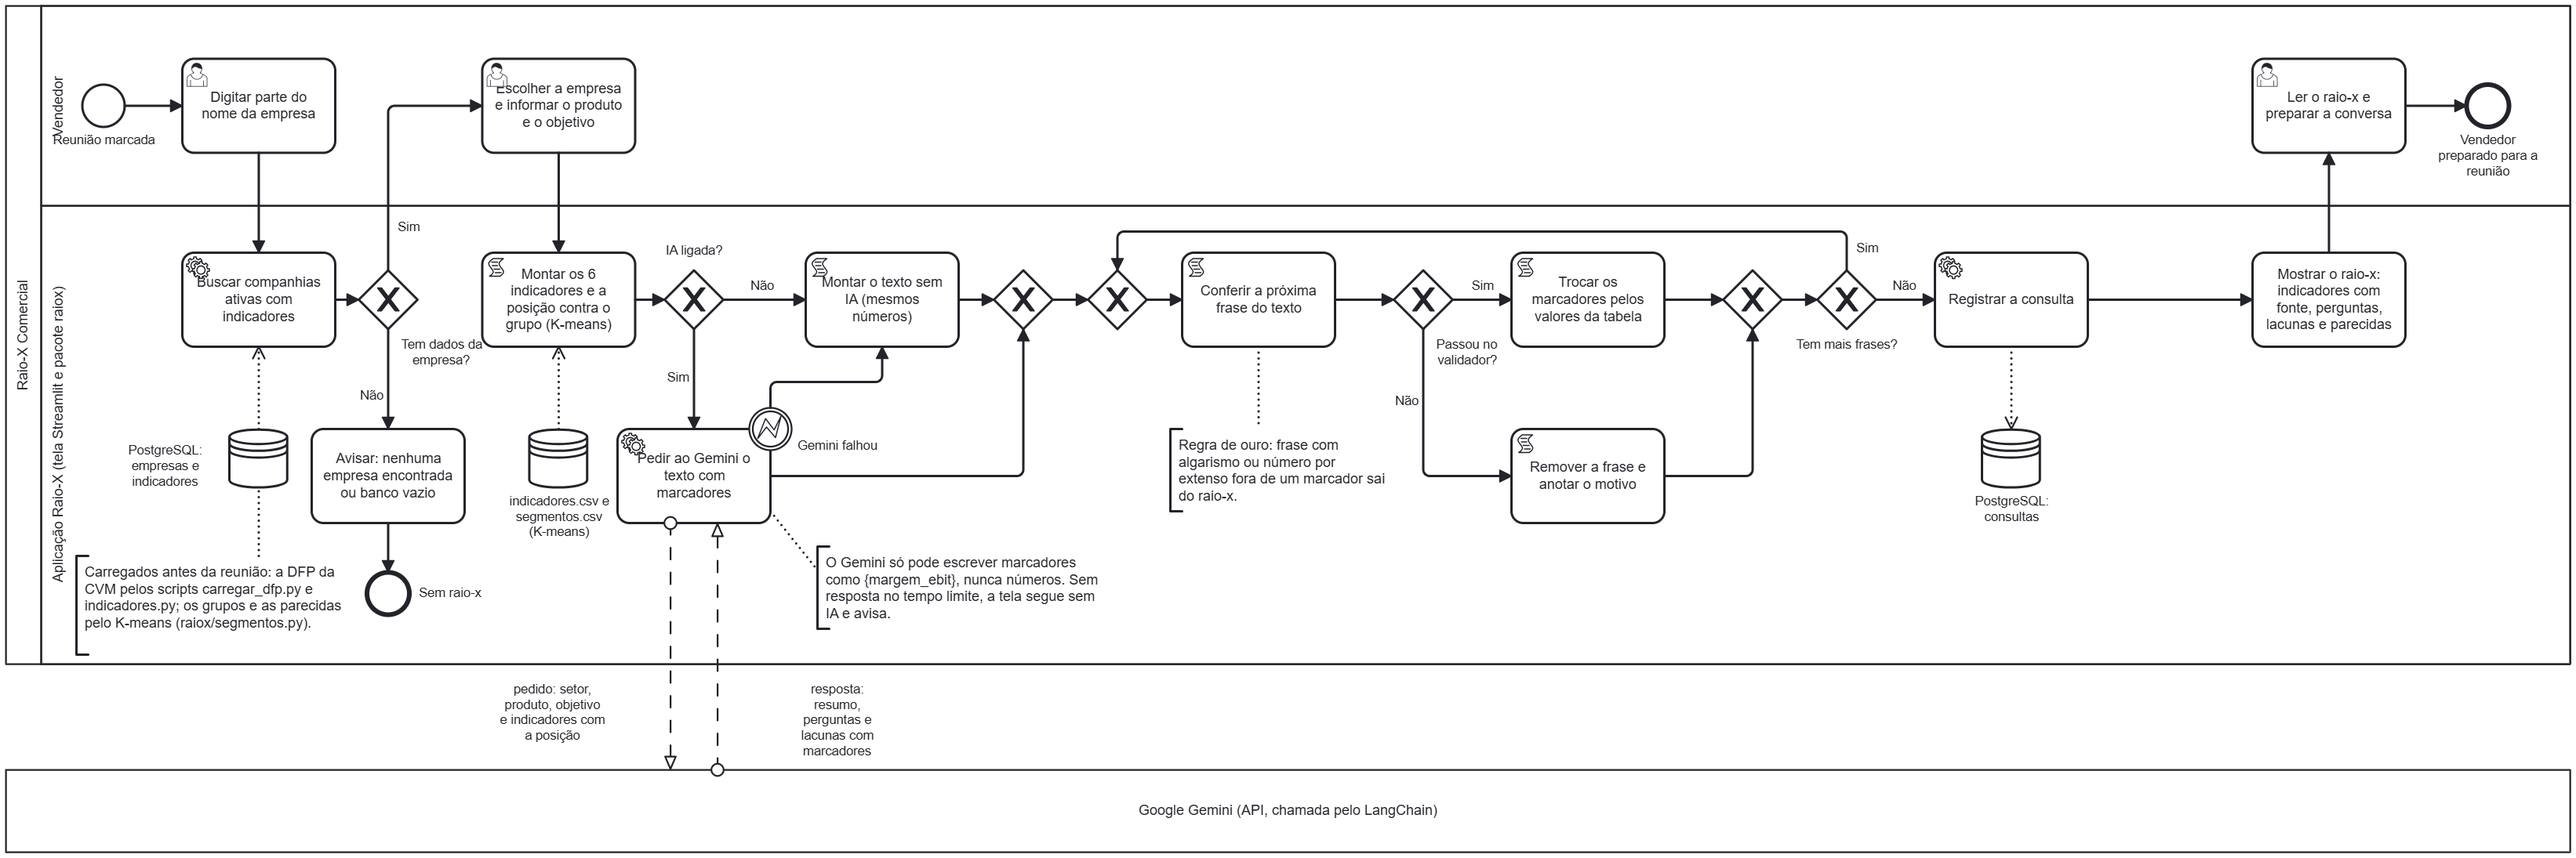
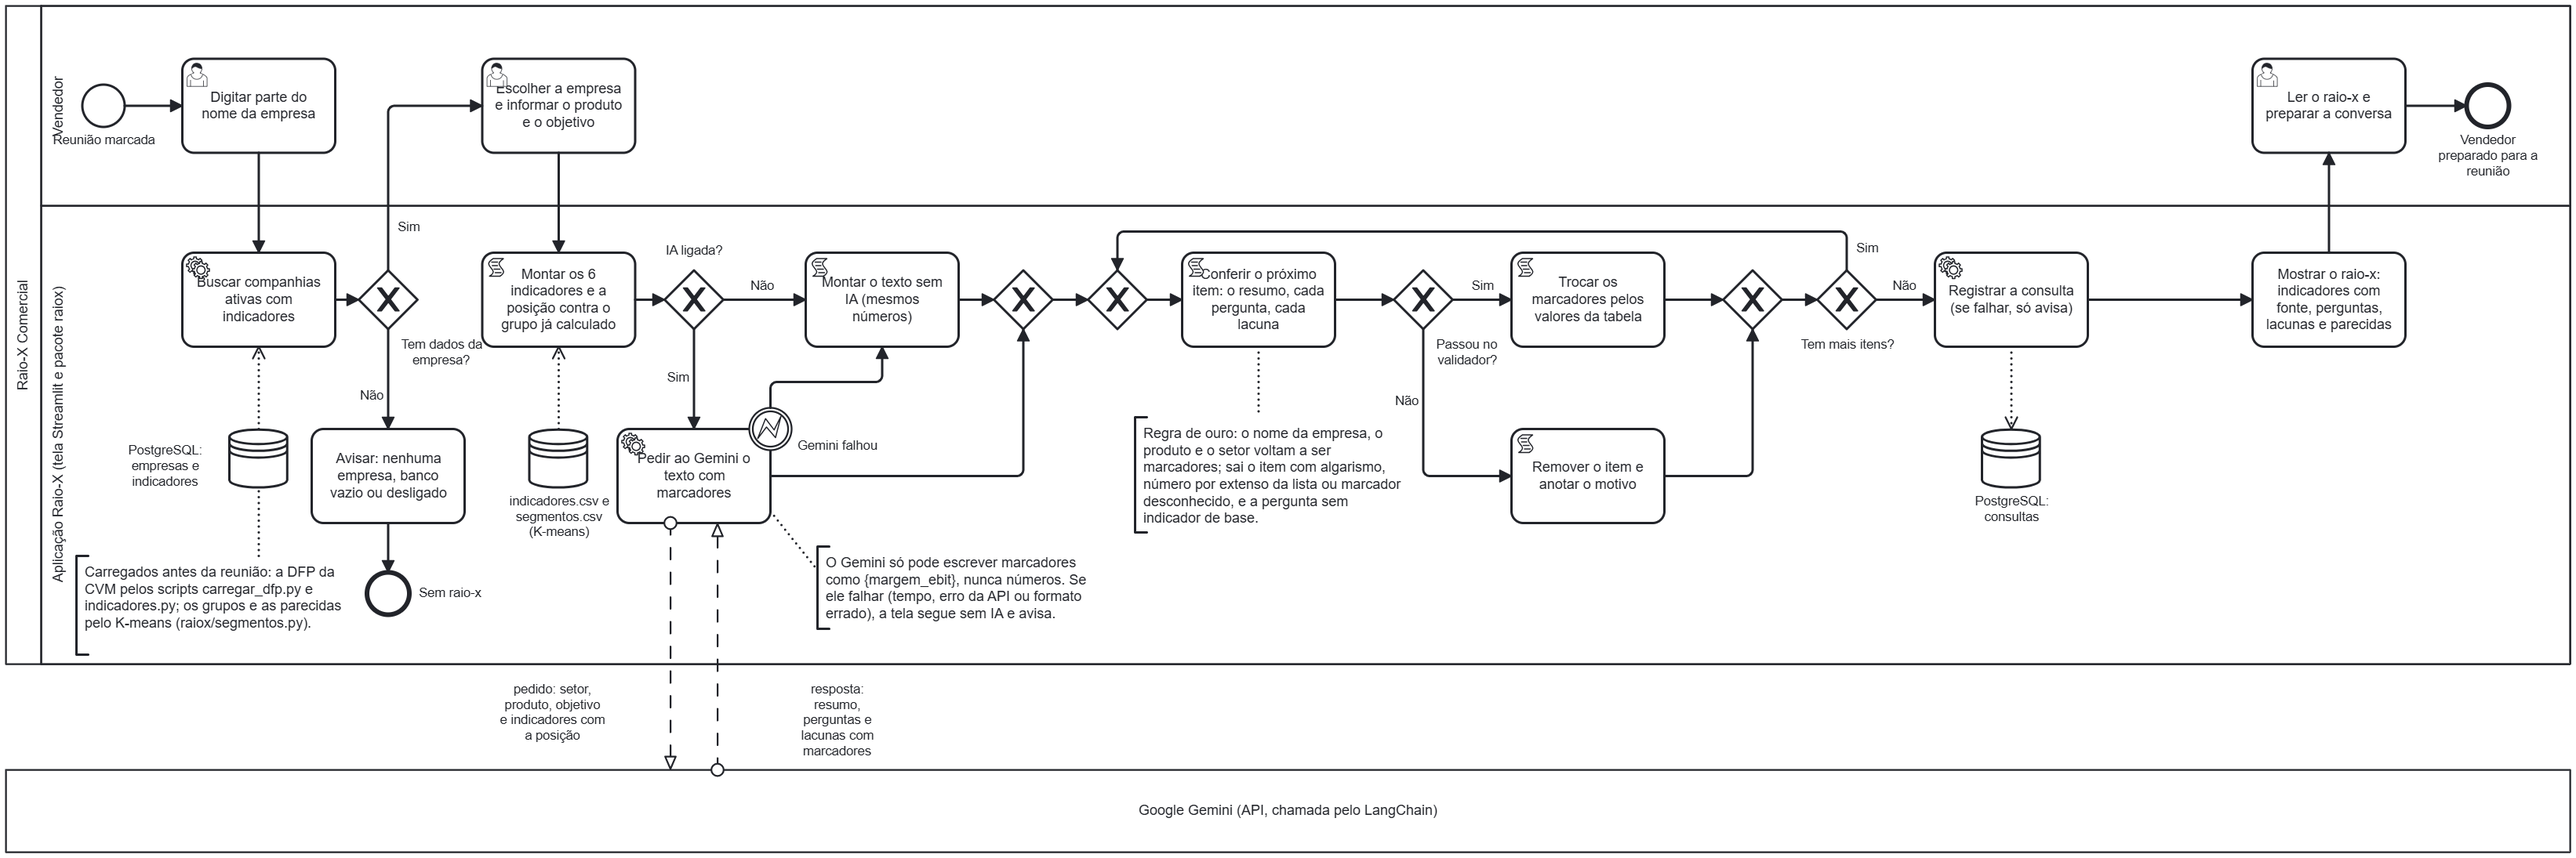
Achados do revisor no PR #52: validador item por item e notas mais exatas
- O validador confere o resumo inteiro, cada pergunta e cada lacuna (raiox/ia.py:263-281),
  e não frase por frase: tarefa, decisão "Tem mais itens?" e notas corrigidas.
- A nota da regra de ouro cita a volta a marcador, o marcador desconhecido e a pergunta sem base;
  a do Gemini, os 3 tipos de falha (tempo, erro da API, formato).
- O grupo vem pronto do segmentos.csv ("já calculado"), não do K-means a cada pedido.
- Aviso da busca inclui o banco desligado; o registro da consulta só avisa se falhar.
- PLANO e REQUISITOS: "0 avisos" é do bpmn-js numa página local; falta abrir no demo.bpmn.io.

diff --git a/docs/PLANO.md b/docs/PLANO.md
@@ -58,8 +58,11 @@ O resumo de cada dia está no [HISTORICO.md](HISTORICO.md).
 - **MA5 (Marcos, 04/11): BPMN 2.0 do processo com o Raio-X** em `docs/bpmn/raio-x-comercial.bpmn` e `.png`, desenhado pelo
   Claude Code a partir do código (o PLANO previa o Marcos desenhando e o Claude revisando). Raias "Vendedor" e "Aplicação",
   o Gemini como pool à parte, PostgreSQL e `data/` como armazenamentos; as decisões "Tem dados da empresa?" e "Passou no
-  validador?" (frase por frase), "IA ligada?" e o erro "Gemini falhou" (→ texto sem IA). Abre no bpmn-js (o motor do bpmn.io)
-  com 0 avisos; o PNG saiu dele. O BPMN "hoje" (sem o Raio-X) não foi feito: é o corte 1 da seção 7 (o `requisitos_projeto.MD`
+  validador?" (item por item: o resumo, cada pergunta e cada lacuna, `raiox/ia.py:263-281`), "IA ligada?" e o erro "Gemini
+  falhou" (→ texto sem IA). O bpmn-js 17.11.1 (o motor do bpmn.io), numa página local, abre o arquivo com 0 avisos de importação, e o
+  PNG saiu dele; no site demo.bpmn.io ainda ninguém abriu. Os erros raros (falha ao gerar mesmo sem IA, `app/streamlit_app.py:117-120`)
+  ficaram fora do desenho. Revisor: ATENÇÃO; 8 dos 9 itens corrigidos no PR (o de erros raros em parte; o
+  `__targetRef_placeholder` fica, porque é o nome que o próprio bpmn-js usa). O BPMN "hoje" (sem o Raio-X) não foi feito: é o corte 1 da seção 7 (o `requisitos_projeto.MD`
   pede o BPMN "do processo da regra de negócio da aplicação", e esse está feito).
 - **Testes:** 244 passed, nenhum pulado (Linux do Miguel, com o PostgreSQL ligado, a branch da MG4b com o #46 mesclado, 04/11).
   No Windows do Marcos, 241 passed com `PYTHONUTF8=1` (03/11 ~12h, branch do #46); sem ele, 8 testes das travas falham: issue #45 (abaixo).
@@ -264,7 +267,7 @@ Os comandos, um por um, estão em [aprender/COMANDOS.md](../aprender/COMANDOS.md
 | MA3 | sex 30–sáb 31/10 (atrasada) | ✅ PR #46 (mesclado em 03/11): C1 e C2, S1, S2 (13 linhas, 0,00%), #17 (o ano do exercício: Camil = DFP de 28/02/2026), corte de R$ 10 mi ok, `checagem` sem "erro". Zip da `data/` no Drive, com o link no grupo (04/11) | dados reais + checagem + 5 empresas conferidas no RI; zip da `data/` no Drive | `avaliacao/conferencia.csv`; consertos | Manual | diferença < 1%; nenhum "erro"; link no grupo | PR |
 | MA3b | qui 05/11 | ✅ PR #51 (na `main` em 04/11): `chmod(0o644)` e teste novo; conferido pelo Miguel no Linux (`-rw-r--r--`, Camil sem `chmod`); #48 fechada | consertar a **issue #48**, achada pelo Miguel em 04/11: o `publicar()` grava a `data/indicadores.csv` com permissão só do dono (`NamedTemporaryFile`), e no Docker do Linux a tela não lê o arquivo (todo raio-x falha). Guia §5: "A aplicação funciona de ponta a ponta na demonstração?" (20%) | `scripts/indicadores.py`, `tests/test_dados.py` | Manual | depois de `docker compose run --rm --user "$(id -u):$(id -g)" tela python scripts/indicadores.py`, `ls -la data/indicadores.csv` → `-rw-r--r--` e a tela gera o raio-x sem o `chmod`; teste novo da permissão; antes do vídeo v0 (MG6) | PR que fecha #48 |
 | MA4 | dom 01–ter 03/11 | — | EDA com 4 gráficos (nulos, distribuições, extremos, cobertura) | `notebooks/eda.ipynb`, `docs/graficos/` | Manual | "Restart & Run All" sem erro | PR |
-| MA5 | qua 04–qui 05/11 | ✅ PR da branch `marcos-bpmn` (04/11): `docs/bpmn/raio-x-comercial.bpmn` e `.png`, desenhados pelo Claude Code a partir do código; abre no bpmn-js com 0 avisos e tem as 2 decisões. O de hoje não foi feito (corte 1, seção 7) | BPMN 2.0 com o Raio-X (obrigatório) e o de hoje (se der tempo), no bpmn.io | `docs/bpmn/` | Plan (o Claude só revisa) | abre no bpmn.io; decisões "tem dados?" e "passou no validador?" | PR |
+| MA5 | qua 04–qui 05/11 | ✅ PR da branch `marcos-bpmn` (04/11): `docs/bpmn/raio-x-comercial.bpmn` e `.png`, desenhados pelo Claude Code a partir do código; o bpmn-js abre com 0 avisos (falta abrir no demo.bpmn.io) e tem as 2 decisões. O de hoje não foi feito (corte 1, seção 7) | BPMN 2.0 com o Raio-X (obrigatório) e o de hoje (se der tempo), no bpmn.io | `docs/bpmn/` | Plan (o Claude só revisa) | abre no bpmn.io; decisões "tem dados?" e "passou no validador?" | PR |
 | MA6 | sáb 07–seg 09/11 | ➡ com o **Eduardo** (decidido em 04/11); o Marcos revisa o rascunho no sáb 07/11 | montar o documento do projeto, escrito em markdown e gerado em PDF (o R aceita markdown; o G §6 pede PDF: vão os dois) | `docs/documentacao.md`, `docs/documentacao.pdf` | Manual | etapas desenvolvidas no processo (R Documentação; a base é o `docs/HISTORICO.md`) + BPMN + justificativa + ética + arquitetura + seção "Dados e limpeza" (as regras do `raiox/limpeza.py`, no lugar do `docs/Raio-X Comercial.pdf`); o Marcos revisou | PR (Eduardo) |
 
 ### Miguel (Claude Code)

diff --git a/docs/REQUISITOS.md b/docs/REQUISITOS.md
@@ -38,7 +38,7 @@ Valem como os arquivos do professor. Quem ouvir uma regra nova em aula escreve a
 
 | # | Requisito / entregável | Onde está hoje | Status | Dono | Prova | O que a banca vai ver | Sessões |
 |---|---|---|---|---|---|---|---|
-| R1 | BPMN 2.0 do processo da regra de negócio da aplicação (G §2; R Documentação) | `docs/bpmn/raio-x-comercial.bpmn` e `.png` (MA5, branch `marcos-bpmn`, 04/11) | ✅ no PR da MA5: o processo com o Raio-X, raias Vendedor e Aplicação, o Gemini como pool à parte, PostgreSQL e `data/` como armazenamentos; decisões "Tem dados da empresa?", "IA ligada?", "Passou no validador?" (frase por frase) e o erro "Gemini falhou"; cada passo citado do código (`app/streamlit_app.py`, `raiox/ia.py`). Abre no bpmn-js (o motor do bpmn.io) com 0 avisos; desenhado pelo Claude Code. Falta entrar no PDF (MA6, seção 4 do rascunho). O BPMN "hoje" (sem o Raio-X) não foi feito: corte 1 do PLANO, seção 7 (o R pede o do processo da aplicação) | Marcos | `git ls-files docs/bpmn` → 2 arquivos; arrastar o `.bpmn` para o demo.bpmn.io | o diagrama no PDF e nos minutos 3–6 da apresentação | MA5, MA6 |
+| R1 | BPMN 2.0 do processo da regra de negócio da aplicação (G §2; R Documentação) | `docs/bpmn/raio-x-comercial.bpmn` e `.png` (MA5, branch `marcos-bpmn`, 04/11) | ✅ no PR da MA5: o processo com o Raio-X, raias Vendedor e Aplicação, o Gemini como pool à parte, PostgreSQL e `data/` como armazenamentos; decisões "Tem dados da empresa?", "IA ligada?", "Passou no validador?" (item por item: o resumo, cada pergunta e cada lacuna) e o erro "Gemini falhou"; os passos vêm do código (`app/streamlit_app.py`, `raiox/ia.py`), menos os erros raros (falha ao gerar mesmo sem IA). O bpmn-js 17.11.1 (o motor do bpmn.io), numa página local, abre com 0 avisos; falta abrir no demo.bpmn.io. Desenhado pelo Claude Code. Falta entrar no PDF (MA6, seção 4 do rascunho). O BPMN "hoje" (sem o Raio-X) não foi feito: corte 1 do PLANO, seção 7 (o R pede o do processo da aplicação) | Marcos | `git ls-files docs/bpmn` → 2 arquivos; arrastar o `.bpmn` para o demo.bpmn.io | o diagrama no PDF e nos minutos 3–6 da apresentação | MA5, MA6 |
 | R2 | Python/Pandas: limpeza, nulos, estruturação | `scripts/carregar_dfp.py`, `scripts/indicadores.py`, `raiox/limpeza.py` (na `main` desde o #4) | ✅ roda com dados reais (03/11: 384.591 linhas de contas, 595 empresas, carga em 1 min 48 s) e grava o CSV padrão do C2 com `cd_cvm` int. **MA3 (PR #46, 03/11):** o ano é o do exercício, e não o do arquivo da CVM (issue #17: Camil = DFP de 28/02/2026; mudam só as 9 empresas que fecham fora de dezembro); 5 empresas conferidas no RI, 13 linhas com diferença de 0,00% (`avaliacao/conferencia.csv`); `raiox/checagem.py` sem nenhum "erro" | Marcos | `python -c "import pandas as pd; print(pd.read_csv('data/indicadores.csv').shape)"` → `(595, 13)`; `test_publicar_grava_o_mesmo_c2_no_csv_e_no_banco` (`tests/test_dados.py`), `test_ano_do_exercicio_e_o_ano_com_mais_meses` (`tests/test_limpeza.py`), `test_main_usa_o_exercicio_de_quem_fecha_fora_de_dezembro` (`tests/test_carregar_dfp.py`) | código, testes de limpeza, EDA | MA1, MA2, MA3 |
 | R3 | SQL (consulta ou persistência), **em PostgreSQL** (regra do professor, abaixo) | `raiox/dados.py` (busca e `registrar_consulta`); `scripts/carregar_dfp.py` grava `contas` e `empresas` | ✅ PostgreSQL na `main` (MA2: PR #21, Marcos, 29/10): tabelas `contas`, `empresas` e `consultas`, busca com `ILIKE`; o CI roda os testes do banco desde o PR #22 (30/10); a tela usa a busca e grava na `consultas` desde a MG4 (PR #36, 02/11). **MA3 (PR #46, 03/11):** tabela `indicadores` no PostgreSQL (`publicar()`, `scripts/indicadores.py`), busca só com companhias ativas e com indicadores e `cd_cvm` int (C1); sem as tabelas, a tela diz "O banco está vazio"; a conexão desiste em 5 s com o banco desligado (`raiox/banco.py`). 241 passed, nenhum pulado (Windows, 03/11) | Marcos | `grep -n "ILIKE\|sqlite3" raiox/dados.py` → só o `ILIKE`; `python -m pytest -q -rs` com o PostgreSQL ligado → nenhum teste pulado | PostgreSQL no `docker compose`, busca da tela, tabela `consultas` | MA2, MA3, MG2, MG4 |
 | R4 | Visualização explicativa | gráfico empresa × grupo na tela; silhueta e grupos (PCA) com os dados reais, antes e depois do ED4, em `docs/graficos/` (`raiox/segmentos.py`) | 🟡 falta a EDA | Marcos (EDA), Eduardo (silhueta, PCA), Miguel (tela) | `ls docs/graficos` mostra 4 PNG; não existe `notebooks/` | `notebooks/eda.ipynb`, `docs/graficos/*.png` | MA4, ED4, MG4 |

diff --git a/docs/HISTORICO.md b/docs/HISTORICO.md
@@ -101,7 +101,8 @@ número do PR) e, se houve, a decisão na tabela de decisões. Sem detalhe técn
   com os dados do #46 (os PNG de `docs/graficos/` continuam os de 28/10).
 - **04/11** · O #51 (MA3b) entrou na `main`, e a #48 foi fechada depois de o Miguel conferir no Linux: o CSV sai legível e a
   Camil gera o raio-x sem o `chmod`. **MA5** (Marcos): o BPMN 2.0 do processo com o Raio-X (`docs/bpmn/`), desenhado pelo Claude
-  Code a partir do código, com as decisões "tem dados?" e "passou no validador?"; abre no bpmn-js sem avisos.
+  Code a partir do código, com as decisões "tem dados?" e "passou no validador?" (item por item); abre no bpmn-js sem avisos. O `revisor` achou que o
+  1º desenho dizia "frase por frase", e o código confere o resumo inteiro, cada pergunta e cada lacuna: corrigido no mesmo PR.
 
 ## Decisões (e por quê)
 
